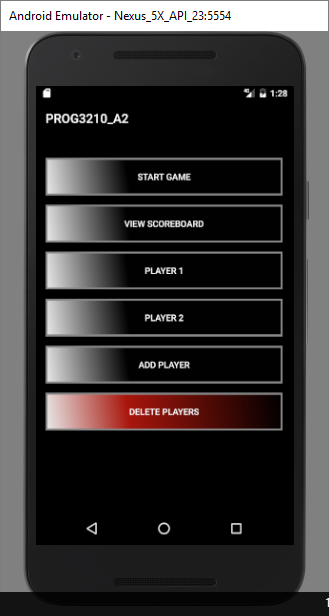
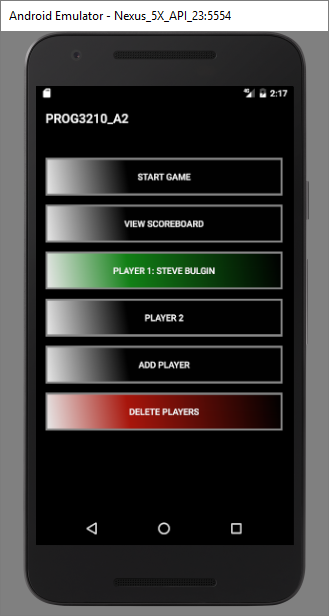
Added green btn to main if player is selected. Displays name aswell.

Changed region(s): [[0.0, 0.9562, 1.0, 1.0], [0.1824, 0.401, 0.7903, 0.4935], [0.8207, 0.1234, 0.8815, 0.1542]]

diff --git a/PROG3210_A2/app/src/main/java/io/github/steve_bulgin/prog3210_a2/MainActivity.java b/PROG3210_A2/app/src/main/java/io/github/steve_bulgin/prog3210_a2/MainActivity.java
@@ -3,6 +3,8 @@
  * Revision History
  * 		Steven Bulgin, 2016.11.09: Added click events for buttons
  *      Steven Bulgin, 2016.11.12: Call PlayerdB in on create for testing
+ *      Steven Bulgin, 2017.02.25: Added in green btns if player is selected on main 
+ *                              else standard button
  */
 
 package io.github.steve_bulgin.prog3210_a2;
@@ -45,6 +47,27 @@ public class MainActivity extends AppCompatActivity implements TextView.OnEditor
         btnPlayerTwo.setOnClickListener(this);
         btnPlayerNew.setOnClickListener(this);
         btnDeletePlayers.setOnClickListener(this);
+
+        //Set player button background
+        //Player 1
+        if (((GameApplication) this.getApplication()).getFull_name_one() != null) {
+            btnPlayerOne.setBackgroundResource(R.drawable.greenbutton);
+            btnPlayerOne.setText("player 1: " + ((GameApplication) this.getApplication()).getFull_name_one());
+        }
+        else {
+            btnPlayerOne.setBackgroundResource(R.drawable.buttonshape);
+            btnPlayerOne.setText("player 1");
+        }
+
+        //Player 2
+        if (((GameApplication) this.getApplication()).getFull_name_two() != null) {
+            btnPlayerTwo.setBackgroundResource(R.drawable.greenbutton);
+            btnPlayerTwo.setText("player 2: " + ((GameApplication) this.getApplication()).getFull_name_two());
+        }
+        else {
+            btnPlayerTwo.setBackgroundResource(R.drawable.buttonshape);
+            btnPlayerTwo.setText("player 2");
+        }
     }
 
     @Override

diff --git a/PROG3210_A2/app/src/main/java/io/github/steve_bulgin/prog3210_a2/PlayerOneActivity.java b/PROG3210_A2/app/src/main/java/io/github/steve_bulgin/prog3210_a2/PlayerOneActivity.java
@@ -3,6 +3,8 @@
  * Revision History
  * 		Steven Bulgin, 2016.11.09: Created
  *      Steven Bulgin, 2016.11.19: Have pass to game via intent working. Take break.
+ *      Steven Bulgin, 2017.02.25: Added onBackPressed to relaunch main activity on
+ *                              pressing of the back android button
  */
 
 package io.github.steve_bulgin.prog3210_a2;
@@ -97,6 +99,15 @@ public class PlayerOneActivity extends Activity {
                 namePasser();
             }
         });
+    }
+
+    //OnBackpress fire the main oncreate
+    @Override
+    public void onBackPressed() {
+        Intent intent = new Intent(PlayerOneActivity.this, MainActivity.class);
+        startActivity(intent);
+        finish();
+        overridePendingTransition(R.anim.slide_in_left, R.anim.slide_out_right);
     }
 
 

diff --git a/PROG3210_A2/app/src/main/java/io/github/steve_bulgin/prog3210_a2/PlayerTwoActivity.java b/PROG3210_A2/app/src/main/java/io/github/steve_bulgin/prog3210_a2/PlayerTwoActivity.java
@@ -2,6 +2,8 @@
  * Purpose: Handles logic for player 2
  * Revision History
  * 		Steven Bulgin, 2016.11.09: Created
+ *      Steven Bulgin, 2017.02.25: Added onBackPressed to relaunch main activity on
+ *                              pressing of the back android button
  */
 
 package io.github.steve_bulgin.prog3210_a2;
@@ -91,6 +93,15 @@ public class PlayerTwoActivity extends Activity {
                 namePasser();
             }
         });
+    }
+
+    //OnBackpress fire the main oncreate
+    @Override
+    public void onBackPressed() {
+        Intent intent = new Intent(PlayerTwoActivity.this, MainActivity.class);
+        startActivity(intent);
+        finish();
+        overridePendingTransition(R.anim.slide_in_left, R.anim.slide_out_right);
     }
 
 

diff --git a/README.md b/README.md
@@ -53,13 +53,17 @@ Things to do
 
 - Added in custom adapter for player listviews
 
+# 2017.02.25
+
+- Added Green buttons on main if player is selected with label that includes name else standard button
+
 ## Features to add
 
 - ~~Swipe views~~
 - ~~Delete One/Add from db~~
 - ~~Custom listview adapter for handling player lists~~
 - ~~Slide animation on swipe~~
-- Mark main menu buttons if player selectected
+- ~~Mark main menu buttons if player selectected~~
   - Maybe use local storage so that choices persist?
 
 
